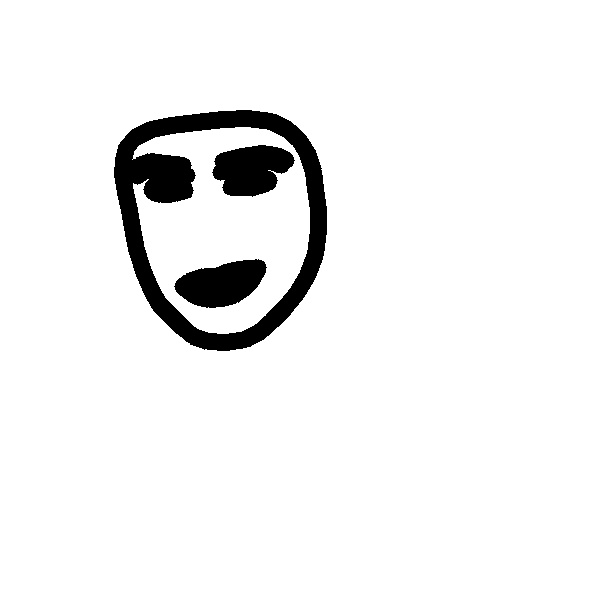
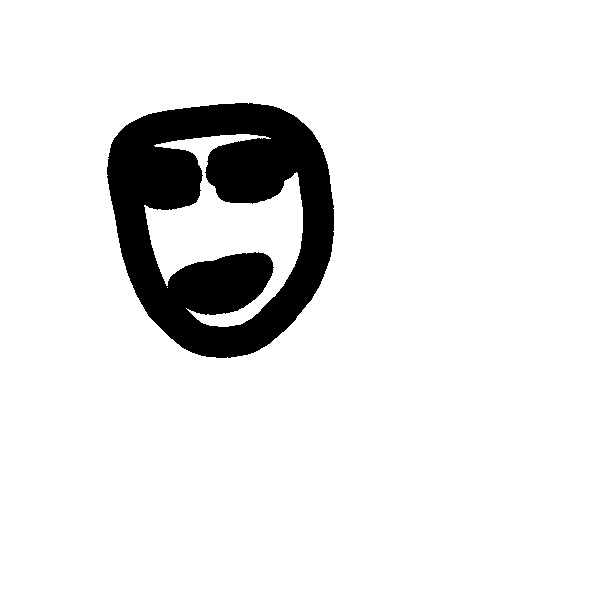
did a little more tuning

Changed region(s): [[0.1794, 0.1495, 0.5681, 0.598]]

diff --git a/facemesh.py b/facemesh.py
@@ -7,7 +7,7 @@ mp_face_mesh = mp.solutions.face_mesh
 from mediapipe.python.solutions.drawing_utils import DrawingSpec
 
 drawingModule = mp.solutions.drawing_utils
-drawing_spec = drawingModule.DrawingSpec(thickness=15, color=(0,0,0))
+drawing_spec = drawingModule.DrawingSpec(thickness=30, color=(0,0,0))
 def get_facemesh(file):
     with mp_face_mesh.FaceMesh(
             static_image_mode=True,

diff --git a/face_full_processing.py b/face_full_processing.py
@@ -72,7 +72,7 @@ for y in range(len(blur)):
             blur[x, y] = gray[x,y]
             print(f"moved {x}, {y}")
 
-blur = cv2.GaussianBlur(blur, (21, 21), 0)
+blur = cv2.GaussianBlur(blur, (11, 11), 0)
 edges = cv2.Canny(blur, 0, 25)
 points = []
 for y in range(len(edges)):
